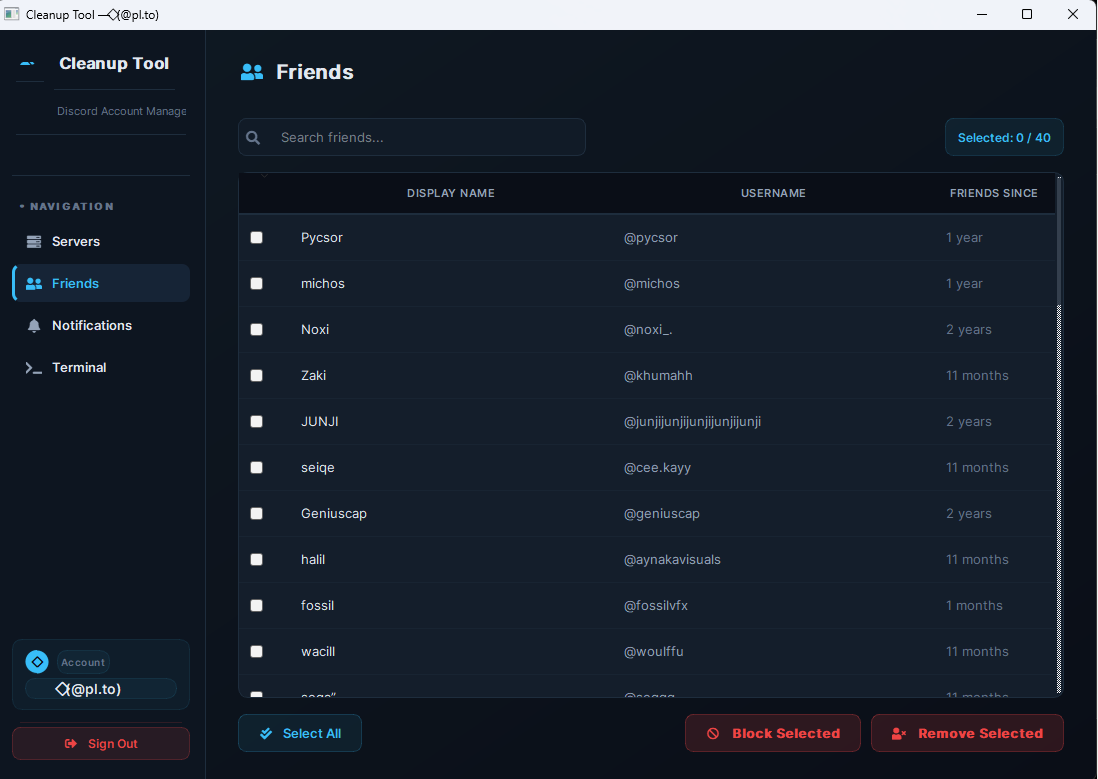
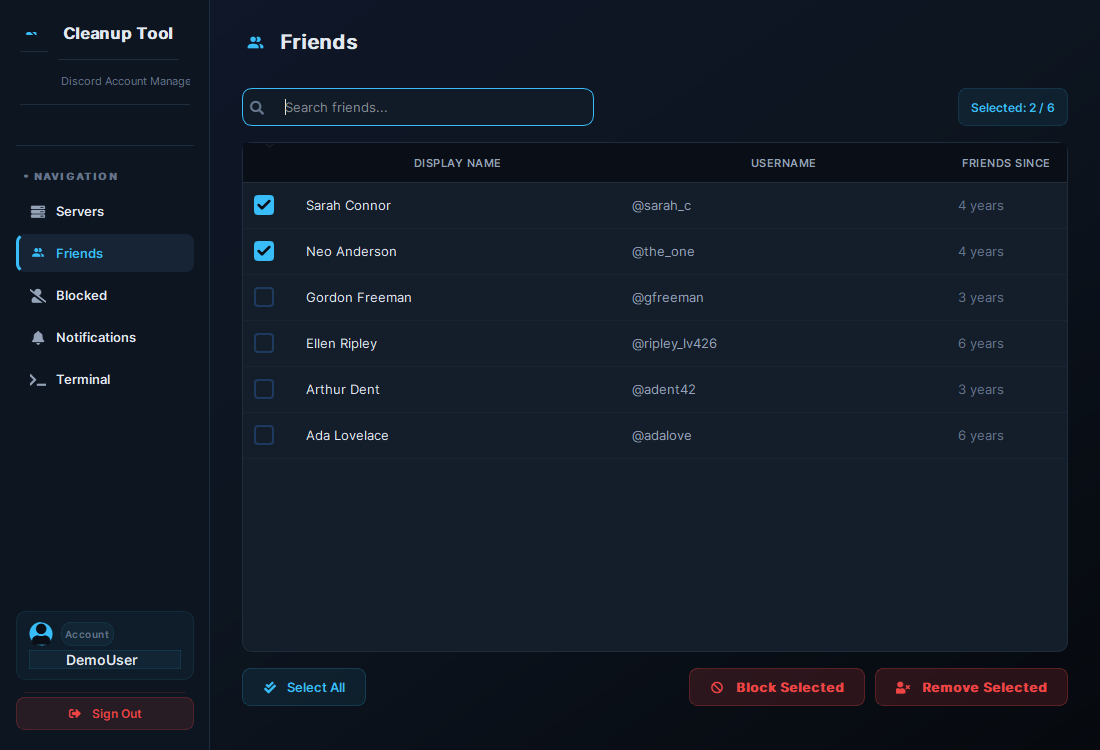
Update screenshots in README and assets for Servers, Friends, Blocked Users, and Notifications

diff --git a/source/generate_screenshots.py b/source/generate_screenshots.py
@@ -1,0 +1,118 @@
+import sys
+import os
+import time
+from PyQt5.QtWidgets import QApplication
+from PyQt5.QtCore import Qt, QSize
+from PyQt5.QtGui import QPixmap, QIcon
+import qtawesome as qta
+from gui_app import MainWindow
+from ui.theme import ACCENT, BG_DARKEST
+
+def generate_screenshots():
+    # Ensure offscreen rendering or proper DPI scaling
+    os.environ["QT_AUTO_SCREEN_SCALE_FACTOR"] = "1"
+    
+    app = QApplication.instance() or QApplication(sys.argv)
+    win = MainWindow()
+    win.resize(1100, 750)
+    win.show()
+    app.processEvents()
+    time.sleep(0.2)
+    app.processEvents()
+
+    # Simulate logged-in account state
+    win.token = "demo_token"
+    win.set_authenticated(True)
+    win.account_name = "DemoUser"
+    win.account_name_label.setText("DemoUser")
+    
+    # Set a nice avatar
+    avatar_pix = qta.icon('fa5s.user', color=BG_DARKEST).pixmap(QSize(24, 24))
+    win.account_avatar.setPixmap(avatar_pix)
+
+    assets_dir = os.path.join(os.path.dirname(__file__), "assets")
+    os.makedirs(assets_dir, exist_ok=True)
+
+    # ── 1. Servers Page Screenshot ──────────────────────────────────────────
+    win.switch_page("servers")
+    win.servers_page.servers_data = [
+        {"id": "847291038472910293", "name": "Community Lounge", "owner": False},
+        {"id": "736182940192837465", "name": "Gaming Hangout", "owner": False},
+        {"id": "625193847261948271", "name": "Open Source Developers", "owner": False},
+        {"id": "514082736152837460", "name": "Anime & Manga Club", "owner": False},
+        {"id": "403971625041726359", "name": "Music & Audio Production", "owner": False},
+        {"id": "392860514930615248", "name": "Tech News & Discussion", "owner": False},
+        {"id": "281759403829504137", "name": "Study & Productivity", "owner": False},
+    ]
+    win.servers_page.populate_table()
+    win.servers_page.servers_table.item(0, 0).setCheckState(Qt.Checked)
+    win.servers_page.servers_table.item(2, 0).setCheckState(Qt.Checked)
+    win.servers_page.update_status()
+    win.servers_page.table_stack.setCurrentIndex(0)
+    app.processEvents()
+    time.sleep(0.2)
+    app.processEvents()
+
+    servers_path = os.path.join(assets_dir, "servers.png")
+    win.grab().save(servers_path, "PNG")
+    print(f"[✓] Saved {servers_path}")
+
+    # ── 2. Friends Page Screenshot ──────────────────────────────────────────
+    win.switch_page("friends")
+    win.friends_page.friends_data = [
+        {"id": "192837465019283746", "user": {"global_name": "Sarah Connor", "username": "sarah_c"}, "since": "2022-04-15T14:20:00Z"},
+        {"id": "283746501928374650", "user": {"global_name": "Neo Anderson", "username": "the_one"}, "since": "2021-11-03T09:12:00Z"},
+        {"id": "374650192837465019", "user": {"global_name": "Gordon Freeman", "username": "gfreeman"}, "since": "2023-01-20T18:45:00Z"},
+        {"id": "465019283746501928", "user": {"global_name": "Ellen Ripley", "username": "ripley_lv426"}, "since": "2020-08-10T12:00:00Z"},
+        {"id": "556019283746501928", "user": {"global_name": "Arthur Dent", "username": "adent42"}, "since": "2023-06-25T16:30:00Z"},
+        {"id": "647019283746501928", "user": {"global_name": "Ada Lovelace", "username": "adalove"}, "since": "2019-12-01T10:00:00Z"},
+    ]
+    win.friends_page.populate_table()
+    win.friends_page.friends_table.item(0, 0).setCheckState(Qt.Checked)
+    win.friends_page.friends_table.item(1, 0).setCheckState(Qt.Checked)
+    win.friends_page.update_status()
+    win.friends_page.table_stack.setCurrentIndex(0)
+    app.processEvents()
+    time.sleep(0.2)
+    app.processEvents()
+
+    friends_path = os.path.join(assets_dir, "friends.png")
+    win.grab().save(friends_path, "PNG")
+    print(f"[✓] Saved {friends_path}")
+
+    # ── 3. Blocked Page Screenshot ──────────────────────────────────────────
+    win.switch_page("blocked")
+    win.blocked_page.blocked_data = [
+        {"id": "112233445566778899", "user": {"global_name": "Crypto Spammer 3000", "username": "free_crypto_now"}},
+        {"id": "223344556677889900", "user": {"global_name": "Nitro Giveaway Bot", "username": "nitro_bot_claim"}},
+        {"id": "334455667788990011", "user": {"global_name": "Steam Gift Card DM", "username": "steam_giftcards_dm"}},
+        {"id": "445566778899001122", "user": {"global_name": "Phishing Bot Support", "username": "discord_mod_support"}},
+    ]
+    win.blocked_page.populate_table()
+    win.blocked_page.blocked_table.item(0, 0).setCheckState(Qt.Checked)
+    win.blocked_page.blocked_table.item(1, 0).setCheckState(Qt.Checked)
+    win.blocked_page.update_status()
+    win.blocked_page.table_stack.setCurrentIndex(0)
+    app.processEvents()
+    time.sleep(0.2)
+    app.processEvents()
+
+    blocked_path = os.path.join(assets_dir, "blocked.png")
+    win.grab().save(blocked_path, "PNG")
+    print(f"[✓] Saved {blocked_path}")
+
+    # ── 4. Notifications Page Screenshot ────────────────────────────────────
+    win.switch_page("notifications")
+    app.processEvents()
+    time.sleep(0.2)
+    app.processEvents()
+
+    notifs_path = os.path.join(assets_dir, "notifications.png")
+    win.grab().save(notifs_path, "PNG")
+    print(f"[✓] Saved {notifs_path}")
+
+    win.close()
+    print("All screenshots generated successfully!")
+
+if __name__ == "__main__":
+    generate_screenshots()

diff --git a/README.md b/README.md
@@ -28,9 +28,9 @@ This is an account-automation tool. Discord user-token automation and self-bot b
 
 ## Screenshots
 
-| Servers | Friends | Notifications |
-|---|---|---|
-| ![Servers](source/assets/servers.png) | ![Friends](source/assets/friends.png) | ![Notifications](source/assets/notifications.png) |
+| Servers | Friends | Blocked Users | Notifications |
+|---|---|---|---|
+| ![Servers](source/assets/servers.png) | ![Friends](source/assets/friends.png) | ![Blocked Users](source/assets/blocked.png) | ![Notifications](source/assets/notifications.png) |
 
 ## Architecture
 
